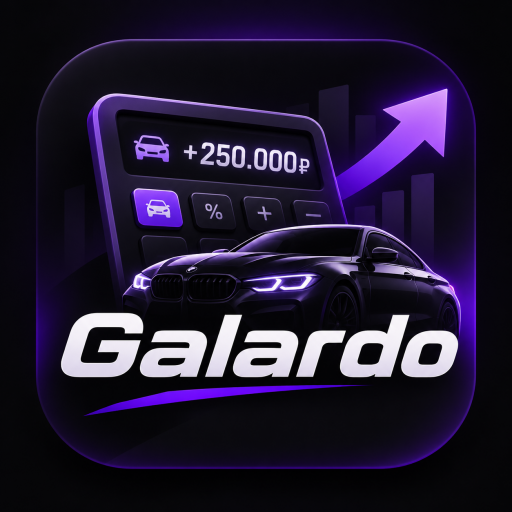
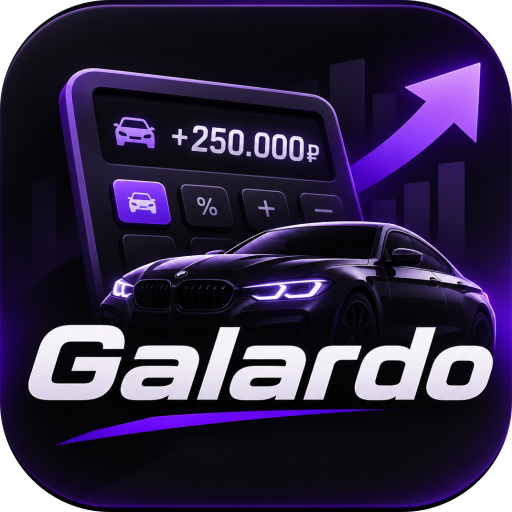
Скруглённая иконка без чёрных полей
Иконка обрезана ровно по скруглению эмблемы: углы прозрачные, чёрный
квадрат вокруг плитки убран. assets/galardo.png пересобран из исходной
картинки с маской радиуса 21,5% и сглаженным краем.

diff --git a/RELEASE.md b/RELEASE.md
@@ -1,8 +1,14 @@
-# Galardo 1.3.1
+# Galardo 1.3.2
 
 Локальный журнал сделок для Majestic RP (Phoenix / RU15) со встроенным
 маркетом. Покупки, продажи, фотографии, комментарии и итоговая прибыль —
 в одном окне. История хранится в SQLite и не пропадает после закрытия.
+
+## Что нового в 1.3.2
+
+- **Иконка со скруглёнными углами**: у эмблемы Galardo больше нет чёрного
+  квадрата по краям — углы прозрачные, обрезка идёт ровно по скруглению.
+  На панели задач и на ярлыке иконка выглядит аккуратной плиткой.
 
 ## Что нового в 1.3.1
 
